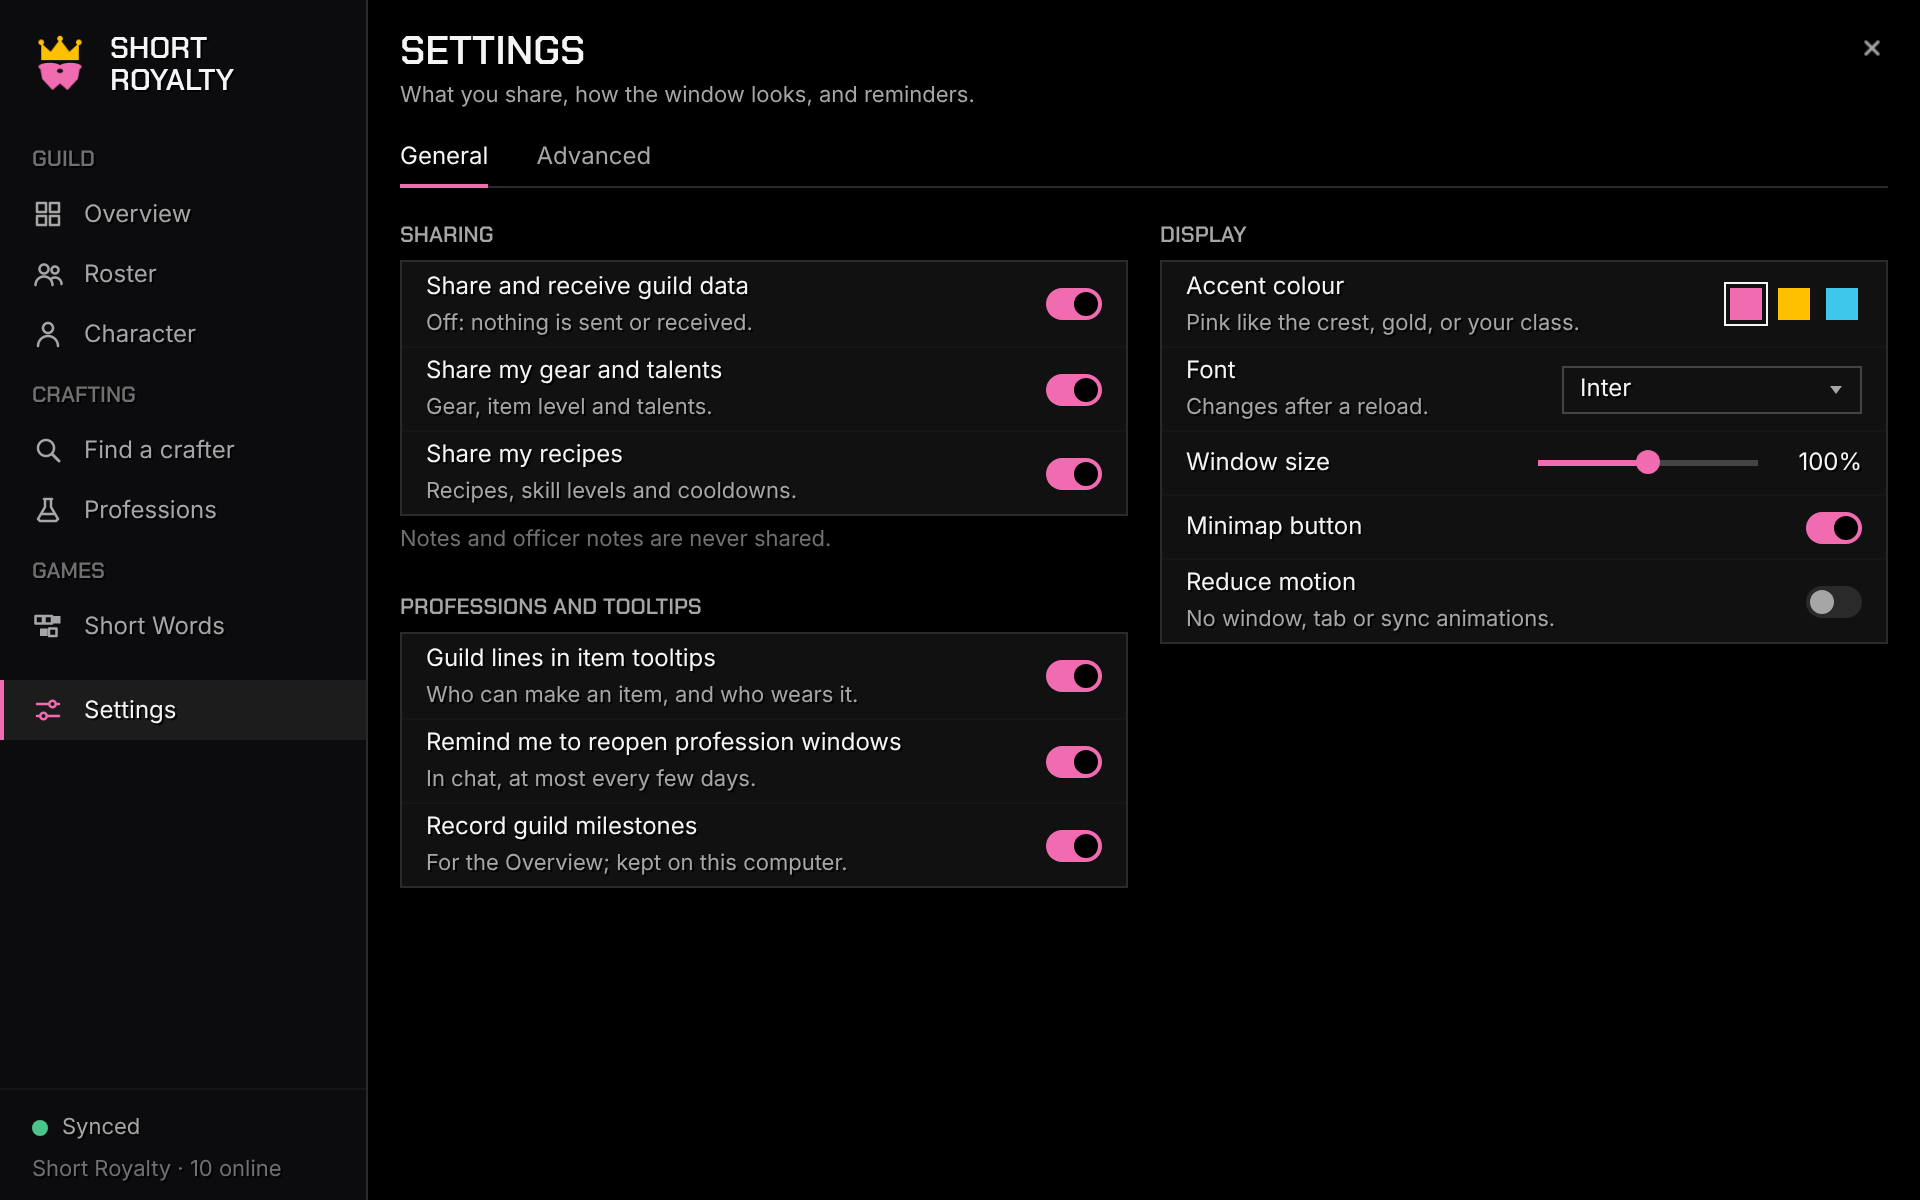
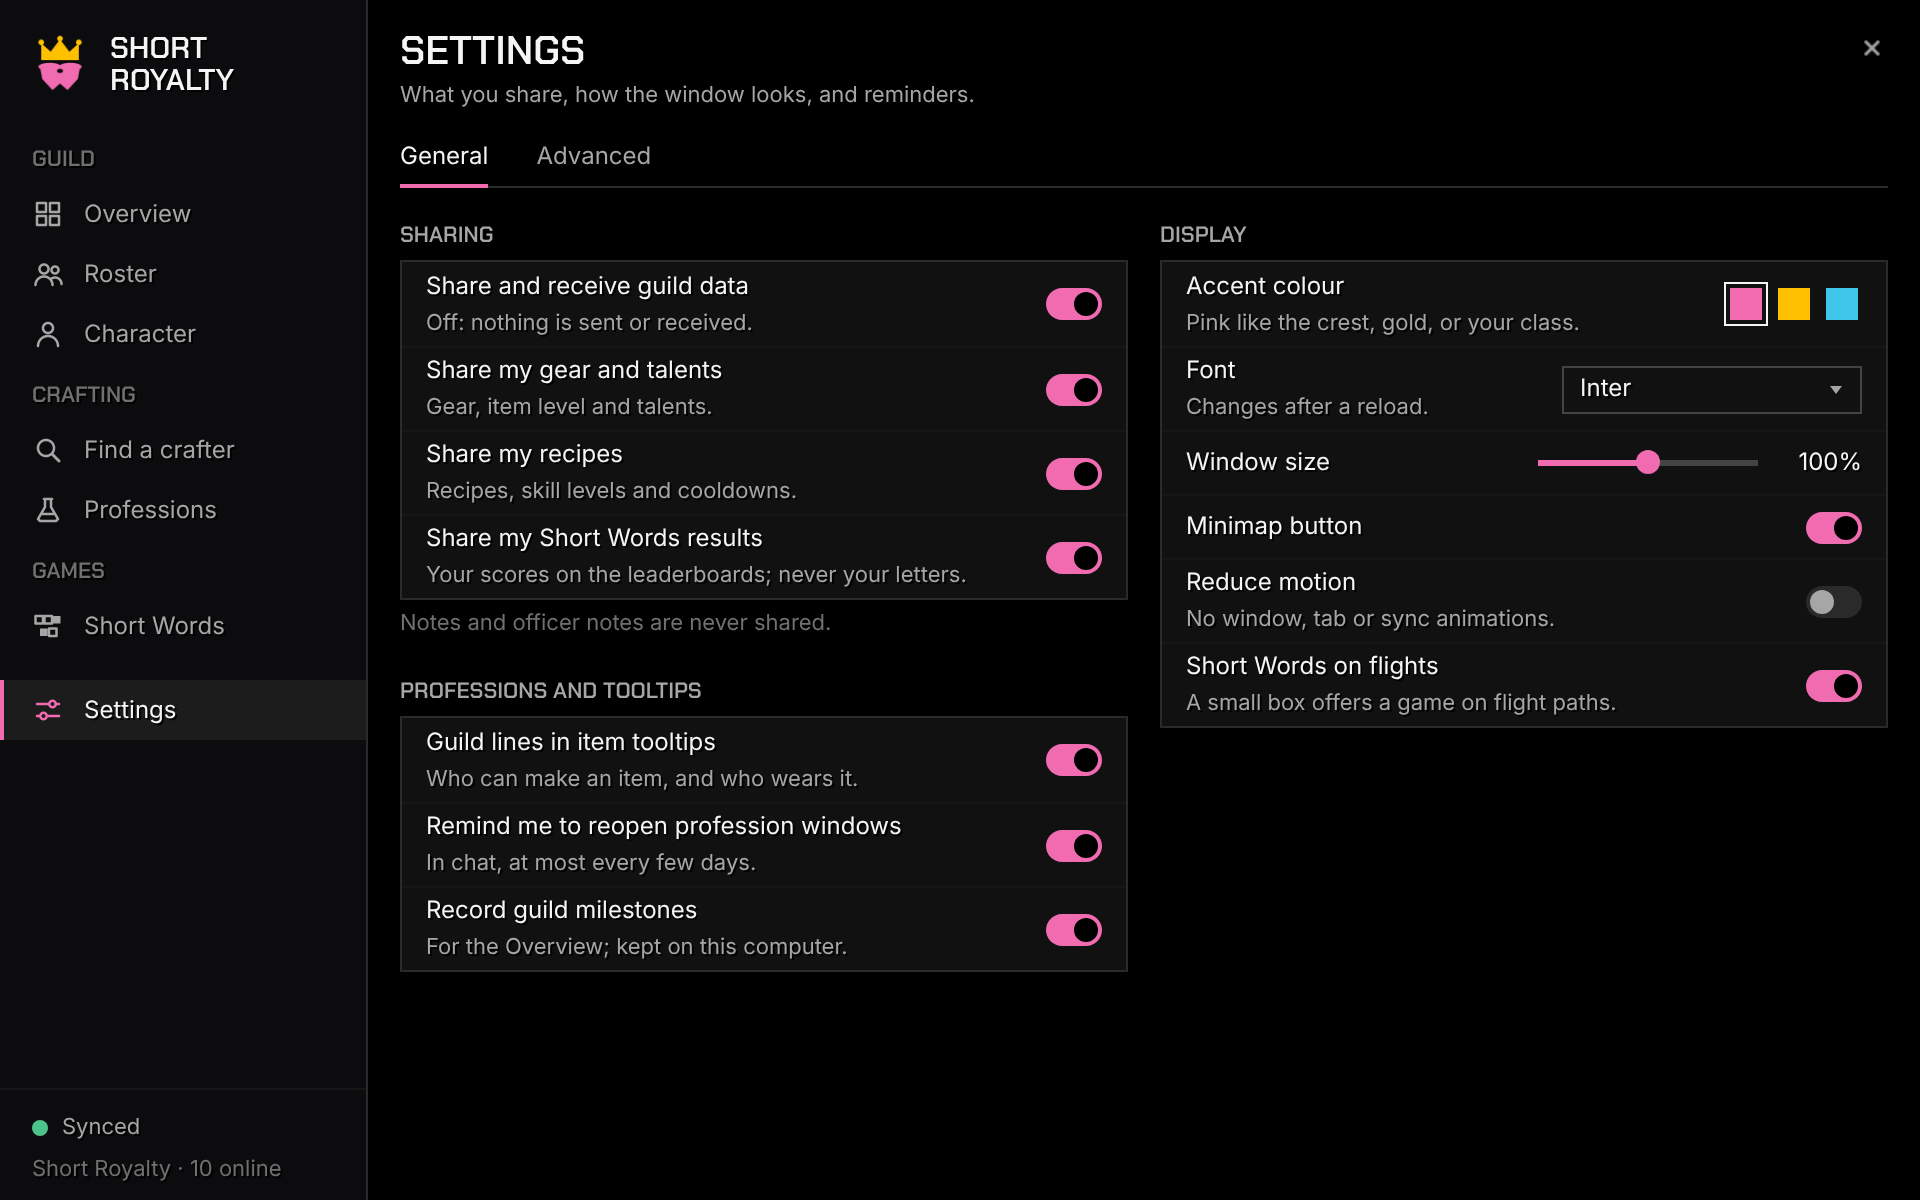
v0.7.2: offer Short Words on flight paths (small box, closes on landing)
A box near the top of the screen offers today's word (or free for all) when
a flight starts; Play opens Short Words, landing hides the box and closes a
window it opened. Settings -> Display -> Short Words on flights.

Claude-Session: https://claude.ai/code/session_01A7mubHpFfygUhDswDYCE27

diff --git a/preview/index.html b/preview/index.html
@@ -241,6 +241,14 @@
   .ttshot { position: absolute; inset: 0; display: flex; gap: 40px; padding: 36px 40px; background:
     radial-gradient(ellipse at 20% 15%, rgba(255,190,120,.30), transparent 55%), radial-gradient(ellipse at 80% 80%, rgba(60,110,90,.45), transparent 60%),
     linear-gradient(170deg, #4a5a6a 0%, #2f3d33 55%, #1d241d 100%); }
+  .flightshot { display: flex; gap: 40px; padding: 40px; background: linear-gradient(#2b3a55, #6f7f96); width: 840px; height: 180px; box-sizing: border-box; }
+  .flightshot .cap { color: #fff; font-size: 12px; margin-bottom: 8px; opacity: .8; }
+  .flightbox { position: relative; width: 320px; height: 56px; box-sizing: border-box; display: flex; align-items: center; gap: 8px; padding: 0 4px 0 12px;
+    background: var(--void); border: 1px solid var(--line); }
+  .flightbox .edge { position: absolute; left: 0; top: 0; bottom: 0; width: 2px; background: var(--accent); }
+  .flightbox .fi { width: 20px; height: 20px; color: var(--accent); -webkit-mask-image: var(--tex-icon-words); mask-image: var(--tex-icon-words); margin-right: 2px; }
+  .flightbox .ft { flex: 1; min-width: 0; font-size: 13px; color: var(--text); } .flightbox .ft .dim { font-size: 12px; color: var(--dim); white-space: nowrap; overflow: hidden; text-overflow: ellipsis; }
+  .flightbox .close { position: static; }
   .ttshot .tip { position: static; display: block; width: 330px; }
   .ttshot .cap { font: 600 12px "Chakra Petch SK", sans-serif; letter-spacing: .1em; text-transform: uppercase; color: #fff; margin-bottom: 10px; }
 </style>
@@ -351,7 +359,7 @@ const SLOT = { 1: "Head", 2: "Neck", 3: "Shoulder", 15: "Back", 5: "Chest", 4: "
 const S = { view: "after", screen: "overview", data: "full", scale: 1, open: true, reduce: false, sort: { key: "seen", desc: false },
   accent: "pink", font: "inter", setView: "general", optOpen: false,
   search: "", raid: "none", attFilter: "all", groupAlts: true, crafterQuery: "arcanite", recipe: 0, charIdx: 1, menuOpen: false,
-  copy: false, checks: { sync: true, gear: true, recipes: true, tips: true, feed: true, nudges: true, minimap: true, reduce: false, debug: false } };
+  copy: false, checks: { sync: true, gear: true, recipes: true, tips: true, feed: true, nudges: true, minimap: true, reduce: false, debug: false, flight: true, words: true } };
 let G = makeGuild("full");
 
 // ---------------------------------------------------------------- helpers
@@ -680,12 +688,14 @@ function settings() {
   const slider = `<span class="slider"><span class="track"><b style="width:${(S.scale - 0.7) / 0.6 * 100}%"></b><i style="left:${(S.scale - 0.7) / 0.6 * 100}%"></i></span><span>${Math.round(S.scale * 100)}%</span></span>`;
   return top + setCard("Sharing", [{ name: "Share and receive guild data", desc: "Off: nothing is sent or received.", ctl: sw("sync") },
       { name: "Share my gear and talents", desc: "Gear, item level and talents.", ctl: sw("gear") },
-      { name: "Share my recipes", desc: "Recipes, skill levels and cooldowns.", ctl: sw("recipes") }], `left:0;top:${t0}px;width:${W}px`, "Notes and officer notes are never shared.")
+      { name: "Share my recipes", desc: "Recipes, skill levels and cooldowns.", ctl: sw("recipes") },
+      { name: "Share my Short Words results", desc: "Your scores on the leaderboards; never your letters.", ctl: sw("words") }], `left:0;top:${t0}px;width:${W}px`, "Notes and officer notes are never shared.")
     + setCard("Professions and tooltips", [{ name: "Guild lines in item tooltips", desc: "Who can make an item, and who wears it.", ctl: sw("tips") },
       { name: "Remind me to reopen profession windows", desc: "In chat, at most every few days.", ctl: sw("nudges") },
-      { name: "Record guild milestones", desc: "For the Overview; kept on this computer.", ctl: sw("feed") }], `left:0;top:${t0 + 20 + 3 * T.sizes.settingRow + 2 + 22 + T.space.l}px;width:${W}px`)
+      { name: "Record guild milestones", desc: "For the Overview; kept on this computer.", ctl: sw("feed") }], `left:0;top:${t0 + 20 + 4 * T.sizes.settingRow + 2 + 22 + T.space.l}px;width:${W}px`)
     + setCard("Display", [{ name: "Accent colour", desc: "Pink like the crest, gold, or your class.", ctl: swatches }, { name: "Font", desc: "Changes after a reload.", ctl: font },
-      { name: "Window size", ctl: slider }, { name: "Minimap button", ctl: sw("minimap") }, { name: "Reduce motion", desc: "No window, tab or sync animations.", ctl: sw("reduce") }],
+      { name: "Window size", ctl: slider }, { name: "Minimap button", ctl: sw("minimap") }, { name: "Reduce motion", desc: "No window, tab or sync animations.", ctl: sw("reduce") },
+      { name: "Short Words on flights", desc: "A small box offers a game on flight paths.", ctl: sw("flight") }],
       `left:${x2}px;top:${t0}px;width:${W}px`);
 }
 
@@ -801,6 +811,12 @@ function tooltipShot() {
       <div style="color:#a6a6a6">Yellow · green · grey at <span style="color:#ff0">300</span> · <span style="color:#40bf40">305</span> · <span style="color:#808080">310</span></div><div>Plans: Arcanite Reaper (drop, Upper Blackrock Spire)</div>
       <div style="color:var(--accent)">Click: crafters, reagents, Wowhead  ·  Right-click: star</div></div></div></div>`;
 }
+// v0.7.2: the box shown on a flight path (Theme.SIZES.flightBox 320 x 56, 140 from the top).
+function flightShot() {
+  const box = (text) => `<div class="flightbox"><i class="edge"></i><i class="mask fi"></i><div class="ft"><div>Flying? Play Short Words</div><div class="dim">${text}</div></div>${btn("Play", "primary")}<div class="close"><i></i></div></div>`;
+  return `<div class="flightshot"><div><div class="cap">Today's word not played yet</div>${box("Today's word is waiting.")}</div>
+    <div><div class="cap">Already played today</div>${box("Play free for all until you land.")}</div></div>`;
+}
 function copyWin() {
   const lines = ["Short Royalty roster", ...rosterRows().slice(0, 30).map((m) => `${m.name}  ${m.level}  ${m.rank}  ${m.spec || "-"}  ${m.ilvl || "-"}`)];
   return `<div class="copywin"><div class="abs display" style="left:16px;top:16px;font-size:13px">Copy as text</div>
@@ -818,6 +834,7 @@ function accentStyle() {
 function render(opts = {}) {
   document.body.classList.toggle("reduce", S.reduce);
   const stage = $("#stage");
+  if (SHOT === "flight") { stage.innerHTML = flightShot(); return; }
   if (SHOT === "tooltip") { stage.innerHTML = `<div style="position:relative;width:${T.sizes.windowW}px;height:440px">${tooltipShot()}</div>`; return; }
   // Window size (as in game) times a fit-to-screen factor for narrow browser windows.
   const cols = S.view === "before" && (innerWidth > 1840 || SHOT === "compare") ? 2 : 1;

diff --git a/docs/mockups/render.js b/docs/mockups/render.js
@@ -36,6 +36,7 @@ const SHOTS = {
   "short-words": ["shot=1&screen=words&data=full", W, H],
   "short-words-done": ["shot=1&screen=words&data=full&wordsDone=1&wordsBoard=today", W, H],
   "short-words-colourblind": ["shot=1&screen=words&data=full&wordsDone=1&wordsCB=1", W, H],
+  "short-words-flight": ["shot=flight", 840, 180],
   "short-words-free": ["shot=1&screen=words&data=full&wordsView=free&wordsBoard=all", W, H],
   "before-after": ["shot=compare&screen=overview&data=full", 880 + W + 72, H + 84],
   "before-after-professions": ["shot=compare&screen=professions&data=full", 880 + W + 72, H + 84],

diff --git a/preview/theme.js b/preview/theme.js
@@ -237,6 +237,7 @@ window.SK_THEME = {
     "cardRow": 28,
     "settingRow": 42,
     "tile": 40,
+    "flightBoxY": 140,
     "titleBar": 52,
     "tabBar": 32,
     "pad": 16,

diff --git a/preview/theme.css b/preview/theme.css
@@ -61,6 +61,7 @@
   --sz-cardRow: 28px;
   --sz-settingRow: 42px;
   --sz-tile: 40px;
+  --sz-flightBoxY: 140px;
   --sz-titleBar: 52px;
   --sz-tabBar: 32px;
   --sz-pad: 16px;

diff --git a/README.md b/README.md
@@ -46,7 +46,7 @@
 | 🛡 **Character** | Anyone's gear, talents, professions, cooldowns, attunements and reputations |
 | ⚒ **Find a crafter** | Search an item or recipe and see who in the guild can make it, online first, with its reagents and your bag counts |
 | 🧪 **Professions** | Three page tabs: **Guild** (every profession in the guild, then each profession's crafters and recipes), **Recipes** (**every recipe in the game**, by name, group or material) and **Cooldowns**; specialisations, favourites, skill-up colours from Forever's own data, and where to learn each recipe |
-| 🔤 **Short Words** | A five-letter word game: **Daily** (one word a day for the whole guild) and **Free for all** (keep going), each with **Today** and **All time** guild leaderboards |
+| 🔤 **Short Words** | A five-letter word game: **Daily** (one word a day for the whole guild) and **Free for all** (keep going), each with **Today** and **All time** guild leaderboards; offered on flight paths |
 | ⚙ **Settings** | Sharing and privacy switches, accent colour, font, window size and reminders; tools and a live status read-out under **Advanced** |
 | 🧨 **Everywhere** | A sidebar window in your pick of accent colour, `/sr`, a minimap button, short guild lines on item tooltips, chat reminders and a copyable debug report |
 
@@ -190,6 +190,12 @@ else) or **red** (not in the word); the keyboard keeps track.
   for the daily word, every couple of minutes at most for free play. Turn
   sharing off in Settings → *Share my Short Words results*. Scores are on
   trust: it's for fun.
+- **On flights:** when you take a flight path, a small box offers a game
+  (today's word if you haven't played it, otherwise free for all). **Play**
+  opens Short Words; landing closes it again if the box opened it. Turn it
+  off in Settings → Display → *Short Words on flights*.
+
+<p align="center"><img src="docs/images/short-words-flight.png" alt="The box shown on a flight path: Flying? Play Short Words" width="100%"></p>
 
 <p align="center"><img src="docs/images/short-words-free.png" alt="Short Words, free for all, all-time leaderboard" width="100%"></p>
 
@@ -200,7 +206,7 @@ Two page tabs. **General** is rows of switches, each with one line saying
 what it does:
 
 - **Sharing:** *Share and receive guild data* (sync on or off), *Share my gear and talents*, *Share my recipes* (recipes, skill levels and cooldowns), *Share my Short Words results*. Notes and officer notes are never shared.
-- **Display:** **Accent colour** (pink like the crest, gold, or your class colour: it changes at once), **Font** (Inter or the game's Arial Narrow, after a reload: a *Reload now* button appears), **Window size** (a slider, 70% to 130%), *Minimap button*, **Reduce motion**.
+- **Display:** **Accent colour** (pink like the crest, gold, or your class colour: it changes at once), **Font** (Inter or the game's Arial Narrow, after a reload: a *Reload now* button appears), **Window size** (a slider, 70% to 130%), *Minimap button*, **Reduce motion**, *Short Words on flights*.
 - **Professions and tooltips:** *Guild lines in item tooltips*, *Remind me to reopen profession windows*, *Record guild milestones*.
 
 **Advanced** holds the rest:
@@ -433,7 +439,7 @@ The full design, data format and merge rules are in [PLAN.md](PLAN.md).
 - [ ] **Ideas for later**: craft requests, a short status line, lockout board
 - [ ] **Later**: raid attendance, guild bank viewer and more in the [plan](PLAN.md#later-in-rough-priority-order)
 - [x] CurseForge release (every release uploads automatically)
-- [x] **v0.7.0**: **Short Words**, a daily and free-for-all word game with guild leaderboards
+- [x] **v0.7.0**: **Short Words**, a daily and free-for-all word game with guild leaderboards (v0.7.1: guild streak, colour-blind colours; v0.7.2: offered on flight paths)
 
 Testing it in game? Work through [TESTING.md](TESTING.md). The plan for launch
 week is in [PLAN.md section 10](PLAN.md#10-once-forever-is-live-from-4-nov-2026).

diff --git a/CLAUDE.md b/CLAUDE.md
@@ -29,6 +29,19 @@ talents, professions, recipes, attunements and reputations in game. Data is
 shared only over the guild **addon channel**: no website, no server, no uploads.
 
 ## Start here (handover, 14 Nov 2026)
+- **v0.7.2 (on branch `claude/short-kings-addon-hlf0t4`, not released):
+  Short Words on flights** (owner: "Go as that's a good idea" to: small box,
+  not the whole window; closes on landing; Settings switch, default on).
+  `UI/FlightWords.lua`: PLAYER_CONTROL_LOST (+0.5 s) and `Compat.OnTaxi`
+  (`UnitOnTaxi("player")`, in Forever's UnitDocumentation, SecretArguments
+  AllowedWhenUntainted) → pure `Flight.Offer(enabled, inCombat, onWords,
+  daily, me)` → box `ShortRoyaltyFlightWords` (`SIZES.flightBox` 320 × 56,
+  `flightBoxY` 140, in UISpecialFrames). Play sets `settings.wordsView` and
+  opens the window; `Flight.opened` only when the window wasn't already
+  shown. Landing = PLAYER_CONTROL_GAINED or a 3 s `OnTaxi` ticker; closes
+  the box and the window if the box opened it. `OnLogin` checks after 3 s
+  (reload mid-air). `settings.flightWords` (Settings → Display). Unverified
+  in game: TESTING 15–17. Picture `short-words-flight.png` (`shot=flight`).
 - **v0.7.1 (released 14 Nov on `main`, owner: "post to main"): guild streak** (owner: "Add that
   then", after a guildmate asked for a Discord-style "streak together"; the
   real NYT Wordle can't be used: addons have no internet and the content is
@@ -571,6 +584,7 @@ UI/       Theme (EVERY colour/font/size/spacing/motion value, the accent),
           RosterTab (+ raid filter, Oldest first), CharacterTab (+ Ask for
           latest), CraftersTab (+ reagents, Favourites chip), ProfessionsTab
           (board / one profession / cooldowns), WordsTab (Short Words),
+          FlightWords (v0.7.2 box offering Short Words on flight paths),
           SettingsTab, DebugWindow,
           Minimap, Tooltip
 Media/    Fonts.xml (Inter and Arial Narrow families + CJK fallback),
@@ -1010,7 +1024,8 @@ what's still open and **renumbered**; older TESTING numbers in this file
 refer to `git show v0.6.0:TESTING.md`.
 1. TESTING.md 1–5: Onyxia amulet check, real cooldowns only, where to learn
    at a trainer, who wears it, the reminder bar's Open button.
-2. v0.7.0 and v0.7.1 Short Words are out: TESTING.md 6–14.
+2. v0.7.0 and v0.7.1 Short Words are out: TESTING.md 6–14; v0.7.2
+   (flights, not released yet): 15–17.
 3. CurseForge: rename the project from "Short Kings" and archive the old
    files (owner's job, `docs/CURSEFORGE.md`).
 

diff --git a/CHANGELOG.md b/CHANGELOG.md
@@ -1,5 +1,18 @@
 # Changelog
 
+## v0.7.2 (not released yet): Short Words on flights
+
+- When you take a **flight path**, a small box near the top of the screen
+  offers a game: "Flying? Play Short Words". It says *Today's word is
+  waiting* if you haven't played the daily word yet, otherwise it offers
+  free for all.
+- **Play** opens the window on Short Words. You still click the board to
+  start typing, so your keyboard is never taken without asking.
+- When you land, the box goes away, and the window closes if the box opened
+  it (your game is saved as you go). A window you had open already stays.
+  **✕** or Esc hides the box for that flight.
+- Turn it off in Settings → Display → *Short Words on flights*.
+
 ## v0.7.1 (14 Nov 2026): Guild streak, red letters, colour-blind colours
 
 - **Short Words → Daily** now shows the **guild streak**: how many days in a

diff --git a/TESTING.md b/TESTING.md
@@ -59,3 +59,14 @@ git history (`git show v0.6.0:TESTING.md`).
 14. [ ] **Colour-blind colours** (v0.7.1, under the keyboard): click it and
     the board, keys and leaderboard colours turn orange / blue / grey;
     click again for green / yellow / red. It's still on after a `/reload`.
+
+## v0.7.2 Short Words on flights
+
+15. [ ] Take a **flight path**: within a second a small box appears near the
+    top of the screen, "Flying? Play Short Words". It says *Today's word is
+    waiting* if you haven't played today, otherwise *Play free for all
+    until you land*.
+16. [ ] **Play** opens Short Words. When you land, the box is gone and the
+    window closes (only if the box opened it). **✕** or Esc hides the box.
+17. [ ] Getting stunned or feared (not on a flight) never shows the box,
+    and Settings → Display → *Short Words on flights* off stops it.

diff --git a/DESIGN.md b/DESIGN.md
@@ -26,6 +26,9 @@ familiar; the brand lives in colour, type and a few precise details.
   General / Advanced) sit under the header: plain text, accent underline.
   A page has one row of tabs at most; a new feature gets a tab or a sidebar
   line, never another row of buttons.
+- **Flight box** (v0.7.2, Short Words on flight paths): 320 × 56 near the
+  top of the screen (`SIZES.flightBox`, `flightBoxY`), black with an accent
+  edge, the Short Words icon, two lines, one Play button and a close.
 - **Content** 744 wide (`Theme.SIZES.contentW`). Two columns of cards on
   the Overview and Settings.
 
